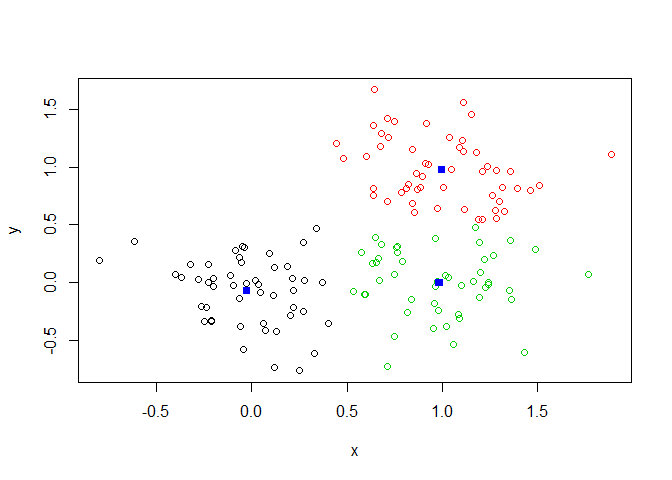
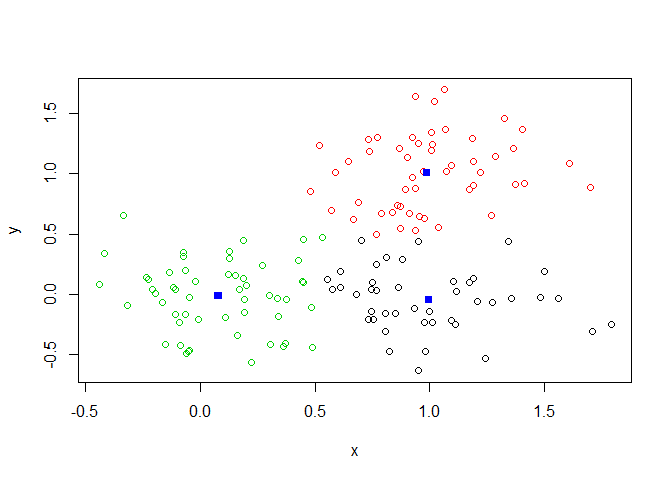
class 8

diff --git a/class08/class08.md b/class08/class08.md
@@ -24,16 +24,16 @@ k
     ## 
     ## Cluster means:
     ##           x         y
-    ## 1  2.880545 -3.264177
-    ## 2 -3.264177  2.880545
+    ## 1  2.789608 -3.098474
+    ## 2 -3.098474  2.789608
     ## 
     ## Clustering vector:
     ##  [1] 2 2 2 2 2 2 2 2 2 2 2 2 2 2 2 2 2 2 2 2 2 2 2 2 2 2 2 2 2 2 1 1 1 1 1
     ## [36] 1 1 1 1 1 1 1 1 1 1 1 1 1 1 1 1 1 1 1 1 1 1 1 1 1
     ## 
     ## Within cluster sum of squares by cluster:
-    ## [1] 58.21735 58.21735
-    ##  (between_SS / total_SS =  90.7 %)
+    ## [1] 46.1866 46.1866
+    ##  (between_SS / total_SS =  91.8 %)
     ## 
     ## Available components:
     ## 
@@ -165,7 +165,7 @@ table(groups)
 
     ## groups
     ##  1  2  3 
-    ## 70 33 47
+    ## 50 59 41
 
 Cross-Tabulate with known results
 
@@ -175,6 +175,6 @@ table(groups,col)
 
     ##       col
     ## groups c1 c2 c3
-    ##      1 17  5 48
-    ##      2 33  0  0
-    ##      3  0 45  2
+    ##      1 44  0  6
+    ##      2  6 10 43
+    ##      3  0 40  1
